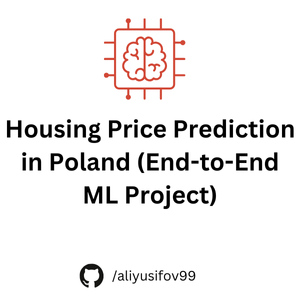
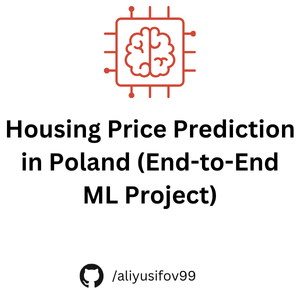
update title and image

Changed region(s): [[0.33, 0.0, 0.66, 0.33]]

diff --git a/js/project-details.js b/js/project-details.js
@@ -2,7 +2,7 @@
 const projects = [
     {
         id: "project0",
-        name: "Housing Price Prediction in Poland",
+        name: "House Price Prediction Poland",
         image: "assets\\images\\house-price-prediction-poland.png",
         github: "https://github.com/aliyusifov99/poland_house_price_prediction",
         demo: "https://streamlit-frontend-2vop66ad7a-uc.a.run.app/",
